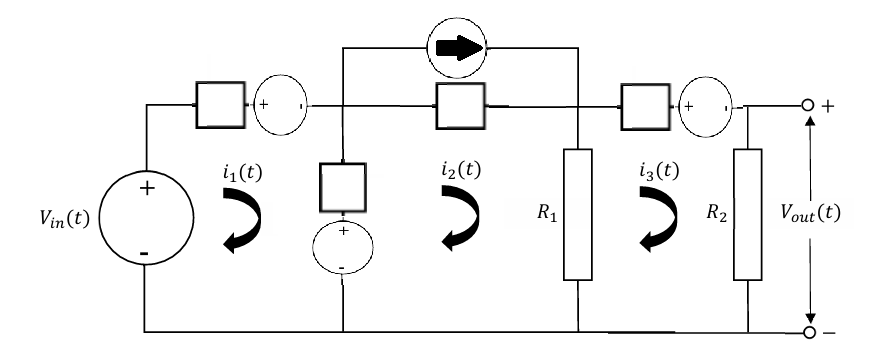
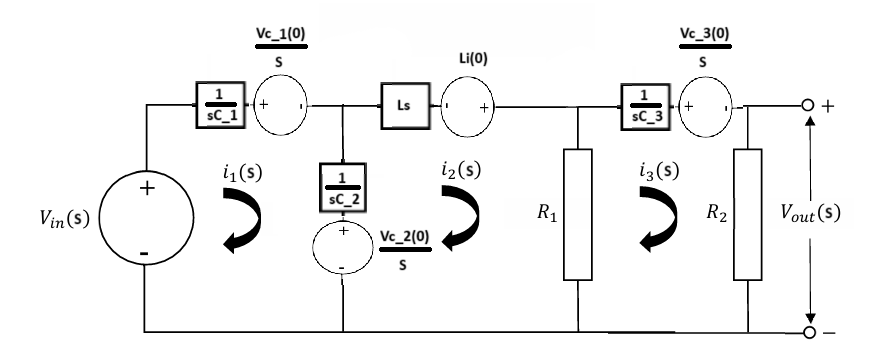
finished script

diff --git a/Matlab/part_A_script.m b/Matlab/part_A_script.m
@@ -15,26 +15,79 @@ fig_transformed = figure('Name', 'Circuit Figure Laplace  Domain');
 imshow('Figures/transformed_math_figure_A.png');
 title('Circuit Diagram (Laplace Domain): ')
 
+% -- assigning values -- 
+% assign values for each componenet and print them out - underscores =
+% subscript, all voltages are in Voltes, Resistors are in OHMS, Capacitors
+% are in Farrads, and L in H
+V_in = 5; % Initialize Voltage input variable in volts
+C_1 = 0.3; 
+V_C1 = 2;
+C_2 = 0.8;
+V_C2 = 5;
+C_3 = 0.1;
+V_C3 = 2;
+L = 0.6;
+Li_l = 6;
+R_1 = 2;
+R_2 = 8;
+
+fprintf(['V_in = 5\n; ' ...
+    'C_1 = 0.3\n' ...
+    'V_C1 = 2\n' ... 
+    'C_2 = 0.8\n' ...
+    'V_C2 = 5\n' ...
+    'C_3 = 0.1\n' ...
+    'L = 0.6;\n' ...
+    'Li_l = 6\n' ...
+    'R_1 = 2\n' ...
+    'R_2 = 8\n' ...
+])
 % -- Print equations -- 
 % Print explanation  message to user in chat
-fprintf('\n\n\nSolving for I1, I2, & I3 using ohms law: \n    ohms law: ((sum of voltage) = (sum of resitors) * i )\n\n')
+fprintf('\n\n\nSolving for I1, I2, & I3 using KVL & ohms law: \n    ohms law: ((sum of voltage) = (sum of resitors) * i )\n\n')
 
-% Print I1 calculations
-fprintf('I1 calculations: \n')
-fprintf('   V_in(s) - V_ c2(s) - V_c3(s) = (1/C_1(S))(i_1(s)) +  (1/C_2(S))(i_1(s) - i_2(s)) \n')
+% Print Mesh 1 calculations
+fprintf('Mesh 1 calculations: \n')
+fprintf('   V_in(s) - V_ c1(0)/s - V_c1(0)/s = (1/C_1(S))(i_1(s)) +  (1/C_2(S))(i_1(s) - i_2(s)) \n')
+fprintf('solve for i_1: \n');
+fprintf('   5/s - 2/s - 5/s = i_1/0.3s - (i_1-i_2)/0.8s\n');
+fprintf('   i_1 = 12s/55 (5i_2/4s - 2/s) \n');
+fprintf('   i_1 = 3i_2/11 - 22/55 2/s) \n');
+I_1str = '3i_2/11 - 22/55 2/s';
 %fprintf('   %f - %f - V_c3(s) = (1/C_1(S))(i_1(s)) +  (1/C_2(S))(i_1(s) - i_2(s)) \n')
 fprintf(['\n   Note: \n    *   after doing a forward laplace transform, the circuit is in the frequency domain, \n    ' ...
-    'the capacitors and inductors act like a resistor would when it comes to calculations\n\n'])
+    'because this system has initial conditions, the voltage sources  \n    V_cn(0)/s must be added for capacitors and Lin(0) for inductors \n\n'])
 
-% Print I2 calculations
-fprintf('I2 calculations: \n')
-fprintf('   V_in(s) - V_ c2(s) - V_c3(s) = (1/C_1(S))(i_1(s)) +  (1/C_2(S))(i_1(s) - i_2(s)) \n')
-%fprintf('   %f - %f - V_c3(s) = (1/C_1(S))(i_1(s)) +  (1/C_2(S))(i_1(s) - i_2(s)) \n')
-fprintf(['\n   Note: \n    *   \n\n'])
+% Print Mesh 2 calculations
+fprintf('Mesh 2 calculations: \n')
+fprintf('   V_c2(0)/s + Li_l(0) = 1/sC_2 (i2 - i1) + Ls (i2) + R1 ( i2 - i3))\n')
+fprintf('solve for i_2 or i_3: \n');
+fprintf('   %d(0)/s + %f(0) = 1/s%f (i2 - i1) + %f (i2) + %d ( i2 - i3)) \n', V_C2, Li_l, C_2, L, R_1)
+disp('   i_3 = 1/2 (i_2(10/11s + 6s/10 + 2)-61/22s + 3)' )
+i_3str = '1/2 (i_2(10/11s + 6s/10 + 2)-61/22s + 3)';
 
+% Print Mesh 3 calculations
+fprintf('Mesh 3 calculations: \n')
+fprintf('   V_C3(0)/(s) = R1(i_3 - i_2) + 1/sC_3 (i_3) + R_2 (i_3) \n')
+fprintf('solve for i_2: \n');
+disp(['    ', num2str(V_C3),'/s = ', num2str(R_1), '(i_3s - i_2) + 1', '- i_2) + 1//s', num2str(C_3),' (i_3) + ', num2str(R_2),'(i_3)'])
+i_2str =  '(1346s^-1 + 12) / (-3 - 20/11s - 12s/10)';
+%i_2str = 'i_2 = 2(2/s + 2i_3 + (10/s)(i_3) + 8i_3';
+disp(['    i_2 = ',i_2str]);
+ 
+% Now Solve System of equations for Meshes 1 - 3:
+fprintf(' \nSolve System of equations for Meshes 1 - 3: \n')
 
-% Print I3 calculations
-fprintf('I3 calculations: \n')
-fprintf('   V_in(s) - V_ c2(s) - V_c3(s) = (1/C_1(S))(i_1(s)) +  (1/C_2(S))(i_1(s) - i_2(s)) \n')
-%fprintf('   %f - %f - V_c3(s) = (1/C_1(S))(i_1(s)) +  (1/C_2(S))(i_1(s) - i_2(s)) \n')
-fprintf(['\n   Note: \n    *   \n\n'])
+disp(['    I1 = ', '3i_2/11 - 22/55 2/s']);
+disp(['    I1 = ', '3/11 (',i_2str,')',' - 22/55 2/s']);
+I_1_new = [' I1 = ', '3/11 (',i_2str,')',' - 22/55 2/s'];
+
+fprintf('\n    I3 = %s \n', i_3str);
+disp (['    I3 = 1/2 (',i_2str,'(10/11s + 6s/10 + 2)-61/22s + 3) ']);
+i_3_new = ['1/2 (',i_2str,'(10/11s + 6s/10 + 2)-61/22s + 3) '];
+
+%display final amplitude values
+disp ('Final I values:')
+disp (['    I1 =', I_1_new])
+disp (['    I2 =', i_2str])
+disp (['    I3 =', i_3_new])
